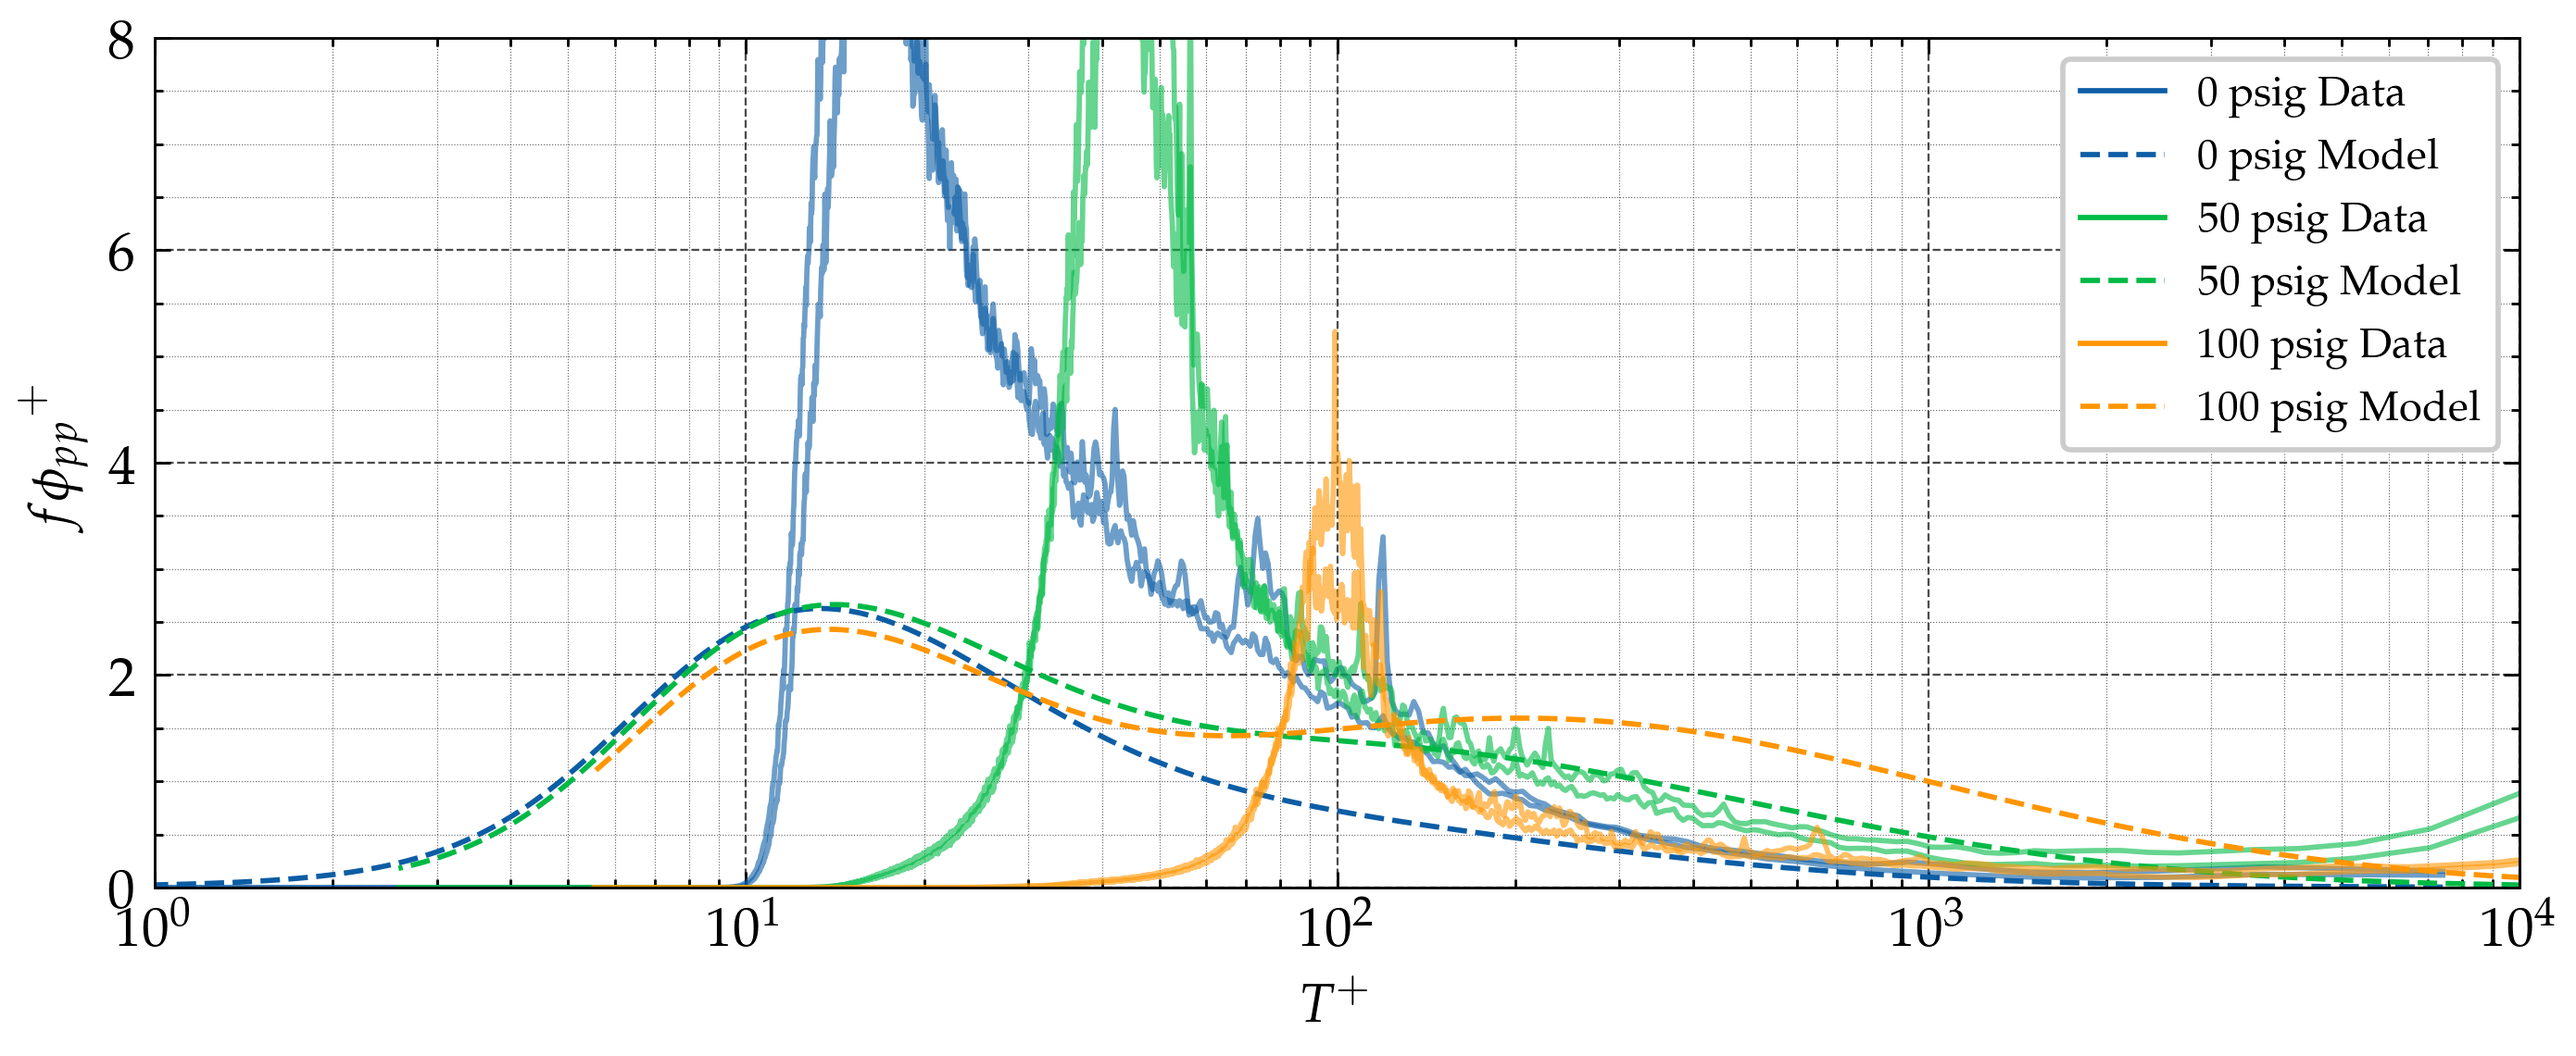
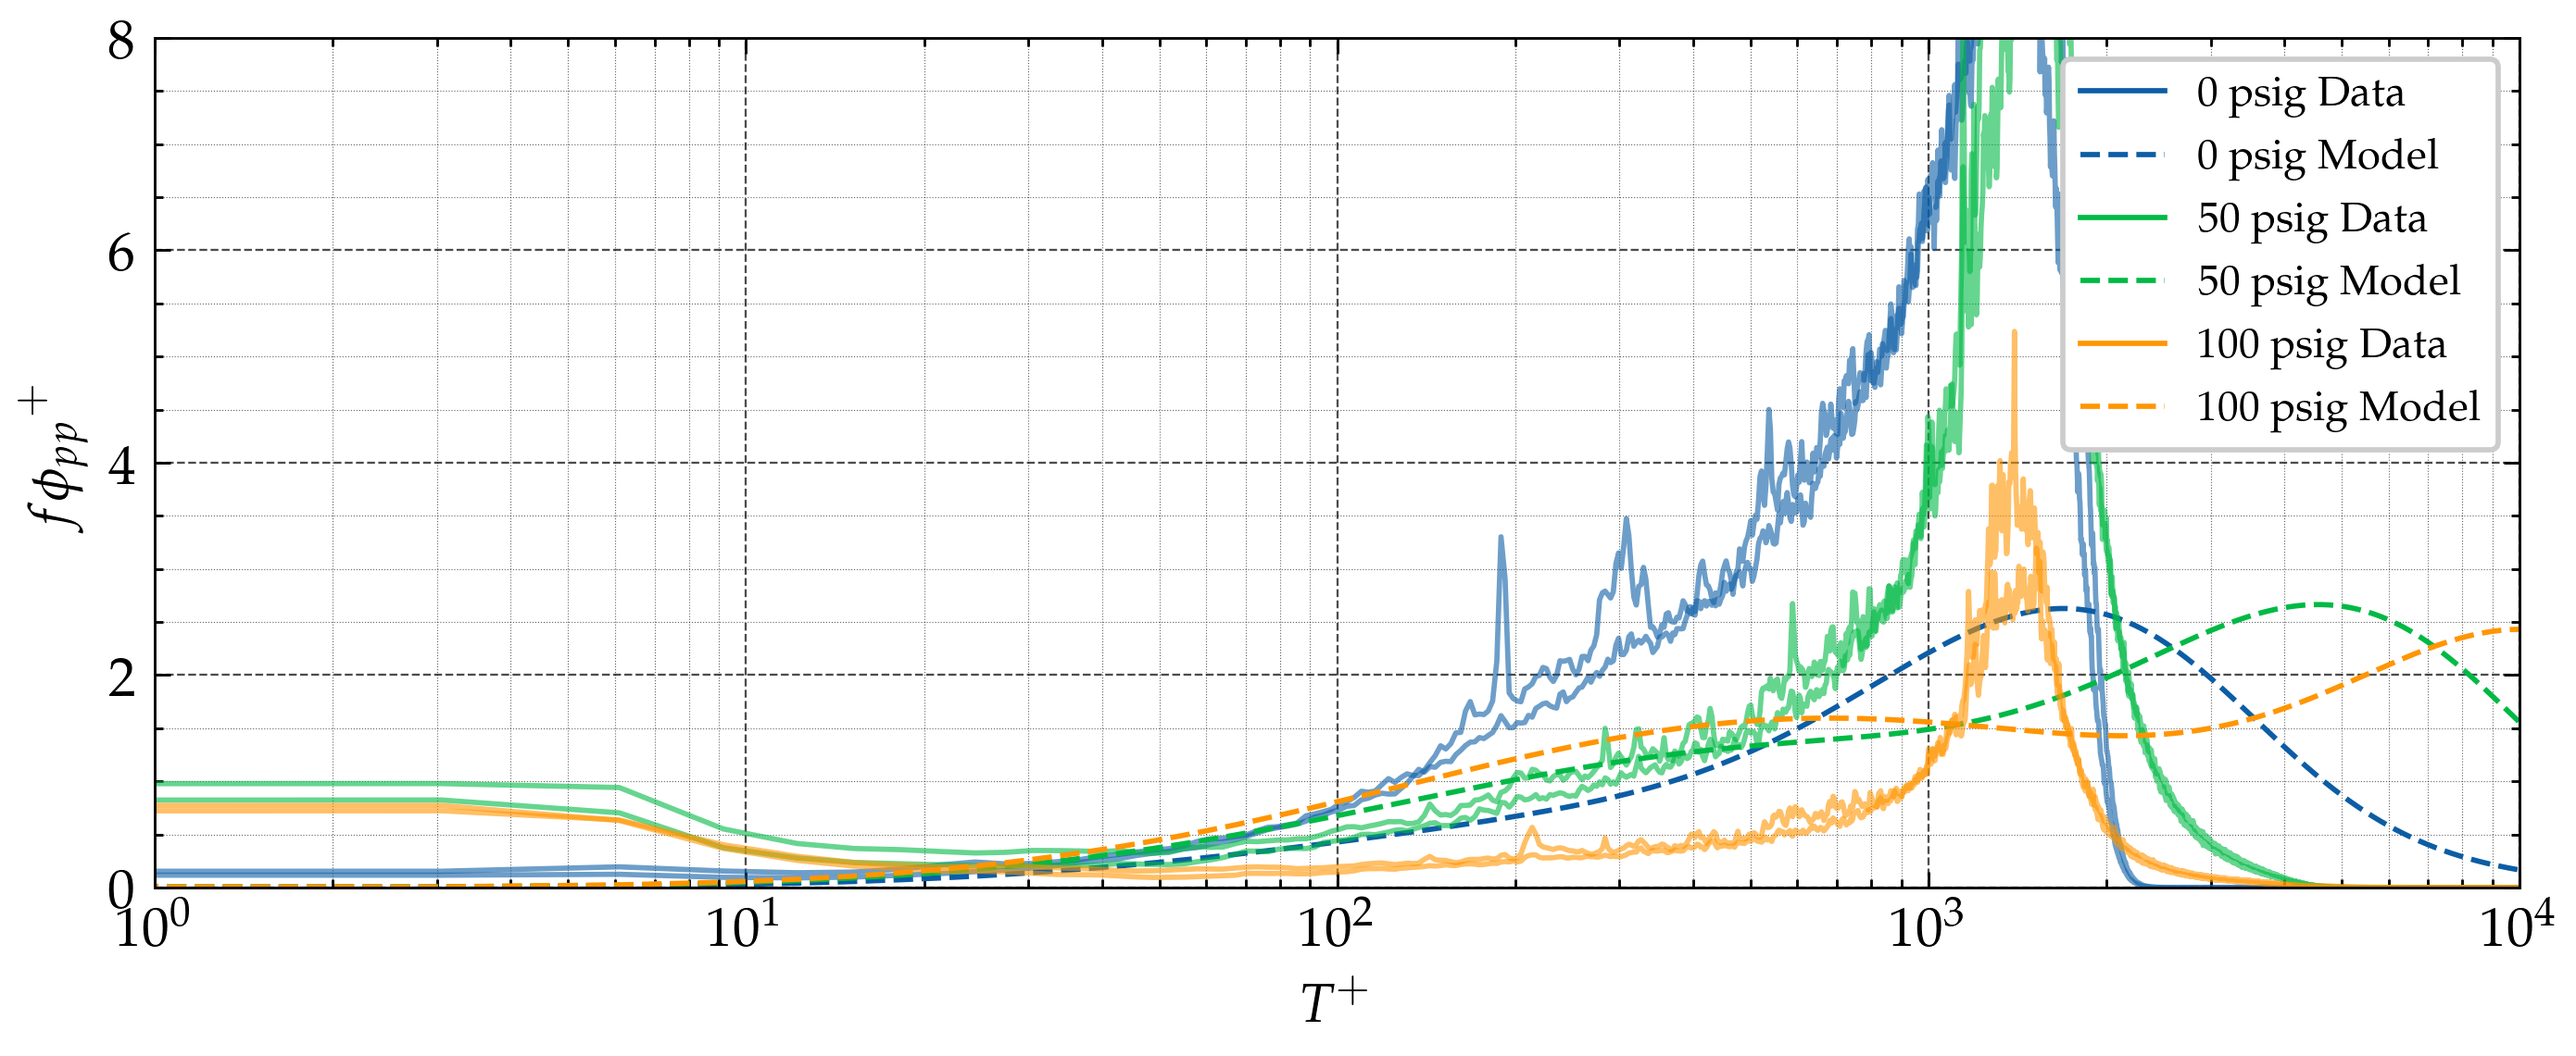
Tonal data ready

Changed region(s): [[0.0618, 0.0307, 0.9896, 0.8589], [0.9277, 0.5828, 0.9586, 0.6442], [0.8968, 0.5521, 0.9277, 0.5828]]

diff --git a/src/25-10-27_new_tfs_needed.py b/src/25-10-27_new_tfs_needed.py
@@ -3,20 +3,18 @@ import numpy as np
 from scipy.signal import welch, csd, get_window
 import scipy.io as sio
 
-from matplotlib import pyplot as plt
-from matplotlib.lines import Line2D
-import scienceplots
 from icecream import ic
 from pathlib import Path
 
 from scipy.signal import butter, sosfiltfilt
-
-
 import torch
 from tqdm import tqdm
 
 from wiener_filter_torch import wiener_cancel_background_torch
 
+from matplotlib import pyplot as plt
+from matplotlib.lines import Line2D
+import scienceplots
 plt.style.use(["science", "grid"])
 plt.rcParams["font.size"] = "10.5"
 plt.rc("text", usetex=True)
@@ -381,9 +379,9 @@ def plot_model_comparison():
         
         data_fphipp_plus1 = (f_clean * Pyy_ph1_clean)/(rho**2 * u_tau**4)
         data_fphipp_plus2 = (f_clean * Pyy_ph2_clean)/(rho**2 * u_tau**4)
-        ax.semilogx(T_plus, data_fphipp_plus1, label=labels[idxfn], alpha=0.6, color=colours[idxfn])
-        ax.semilogx(T_plus, data_fphipp_plus2, label=labels[idxfn], alpha=0.6, color=colours[idxfn])
-        ax.semilogx(T_plus, channel_fphipp_plus, label=f'Model {labels[idxfn]}', linestyle='--', color=colours[idxfn])
+        ax.semilogx(f_clean, data_fphipp_plus1, label=labels[idxfn], alpha=0.6, color=colours[idxfn])
+        ax.semilogx(f_clean, data_fphipp_plus2, label=labels[idxfn], alpha=0.6, color=colours[idxfn])
+        ax.semilogx(f_clean, channel_fphipp_plus, label=f'Model {labels[idxfn]}', linestyle='--', color=colours[idxfn])
 
     ax.set_xlabel(r"$T^+$")
     ax.set_ylabel(r"${f \phi_{pp}}^+$")
@@ -428,8 +426,8 @@ def plot_tf_model_comparison():
         channel_fphipp_plus = rv_c*(g1_c+g2_c)
         bl_fphipp_plus = rv_b*(g1_b+g2_b)
 
-        ax.semilogx(T_plus, channel_fphipp_plus, label=f'Model {labels[idxfn]}', linestyle='--', color=colours[idxfn], lw=0.7)
-        ax.semilogx(T_plus, bl_fphipp_plus, label=f'BL Model {labels[idxfn]}', linestyle='-.', color=colours[idxfn], lw=0.7)
+        ax.semilogx(f_clean, channel_fphipp_plus, label=f'Model {labels[idxfn]}', linestyle='--', color=colours[idxfn], lw=0.7)
+        ax.semilogx(f_clean, bl_fphipp_plus, label=f'BL Model {labels[idxfn]}', linestyle='-.', color=colours[idxfn], lw=0.7)
 
 
         # Apply transfer function
@@ -447,8 +445,8 @@ def plot_tf_model_comparison():
         T_plus_tf = 1/f_clean_tf * (u_tau**2)/nu
         data_fphipp_plus1_tf = (f_clean_tf * Pyy_ph1_clean_tf)/(rho**2 * u_tau**4)
         data_fphipp_plus2_tf = (f_clean_tf * Pyy_ph2_clean_tf)/(rho**2 * u_tau**4)
-        ax.semilogx(T_plus_tf, data_fphipp_plus1_tf, linestyle='-', color=colours[idxfn], alpha=0.7, lw=0.7)
-        ax.semilogx(T_plus_tf, data_fphipp_plus2_tf, linestyle='-', color=colours[idxfn], alpha=0.7, lw=0.7)
+        ax.semilogx(f_clean_tf, data_fphipp_plus1_tf, linestyle='-', color=colours[idxfn], alpha=0.7, lw=0.7)
+        ax.semilogx(f_clean_tf, data_fphipp_plus2_tf, linestyle='-', color=colours[idxfn], alpha=0.7, lw=0.7)
 
     ax.set_xlabel(r"$T^+$")
     ax.set_ylabel(r"${f \phi_{pp}}^+$")
@@ -548,11 +546,102 @@ def plot_required_tfs():
     ax[0].legend(loc='upper left', fontsize=8)
     fig.savefig('figures/final/required_transfer_functions.png', dpi=410)
 
+def plot_required_ratios():
+    fn_atm = '0psig_cleaned.h5'
+    fn_50psig = '50psig_cleaned.h5'
+    fn_100psig = '100psig_cleaned.h5'
+    labels = ['0psig', '50psig', '100psig']
+    colours = ['C0', 'C1', 'C2']
+
+    fig, ax = plt.subplots(1, 1, figsize=(20, 12), tight_layout=True)
+    for idxfn, fn in enumerate([fn_atm, fn_50psig, fn_100psig]):
+        with h5py.File(f'data/{fn}', 'r') as hf:
+            ph1_clean = hf['ph1_clean'][:]
+            ph2_clean = hf['ph2_clean'][:]
+            u_tau = hf.attrs['u_tau']
+            nu = hf.attrs['nu']
+            rho = hf.attrs['rho']
+            f_cut = hf.attrs['f_cut']
+            Re_tau = hf.attrs['Re_tau']
+        f_clean, Pyy_ph1_clean = compute_spec(FS, ph1_clean)
+        f_clean, Pyy_ph2_clean = compute_spec(FS, ph2_clean)
+        T_plus = 1/f_clean * (u_tau**2)/nu
+
+        g1_c, g2_c, rv_c = channel_model(T_plus, Re_tau, u_tau, 14)
+        channel_fphipp_plus = rv_c*(g1_c+g2_c)
+        g1_b, g2_b, rv_b = bl_model(T_plus, Re_tau, 2*(u_tau**2)/14.0**2)
+        bl_fphipp_plus = rv_b*(g1_b+g2_b)
+        
+        data_fphipp_plus1 = (f_clean * Pyy_ph1_clean)/(rho**2 * u_tau**4)
+        data_fphipp_plus2 = (f_clean * Pyy_ph2_clean)/(rho**2 * u_tau**4)
+
+        # Cut off where the filter does
+        T_plus_mask = T_plus >= TPLUS_CUT
+        f_clean = f_clean[T_plus_mask]
+        T_plus = T_plus[T_plus_mask]
+        channel_fphipp_plus = channel_fphipp_plus[T_plus_mask]
+        bl_fphipp_plus = bl_fphipp_plus[T_plus_mask]
+        data_fphipp_plus1 = data_fphipp_plus1[T_plus_mask]
+        data_fphipp_plus2 = data_fphipp_plus2[T_plus_mask]
+
+        model_data_ratio1 = channel_fphipp_plus / data_fphipp_plus1
+        model_data_ratio1 = bl_fphipp_plus / data_fphipp_plus1
+        model_data_ratio2 = channel_fphipp_plus / data_fphipp_plus2
+        model_data_ratio2 = bl_fphipp_plus / data_fphipp_plus2
+
+        ax.loglog(f_clean, model_data_ratio1, label=f'Ratio 1 {labels[idxfn]}', alpha=0.6, color=colours[idxfn])
+        ax.loglog(f_clean, model_data_ratio2, label=f'Ratio 2 {labels[idxfn]}', alpha=0.6, color=colours[idxfn])
+
+        ic(model_data_ratio1)
+
+        freq_print = np.geomspace(50, 2500, 16)
+        avg = np.empty_like(freq_print)
+        for i, f in enumerate(freq_print):
+            idx = np.argmin(np.abs(f_clean - f))
+            # ic(fn, (model_data_ratio1[idx]+model_data_ratio2[idx])/2)
+            avg[i] = (model_data_ratio1[idx]+model_data_ratio2[idx])/2
+        # ic(fn, freq_print, avg)
+
+        f = 100
+        idx = np.argmin(np.abs(freq_print - f))
+        ic(f, avg[idx])
+
+        # # Plot transfer function magnitude on top
+        # f1_fused_insitu = np.load(f"data/20251016/flow_data/tf_combined/700_{labels[idxfn]}_fused_insitu_f1.npy")
+        # H1_fused_insitu = np.load(f"data/20251016/flow_data/tf_combined/700_{labels[idxfn]}_fused_insitu_H1.npy")
+        # f2_fused_insitu = np.load(f"data/20251016/flow_data/tf_combined/700_{labels[idxfn]}_fused_insitu_f2.npy")
+        # H2_fused_insitu = np.load(f"data/20251016/flow_data/tf_combined/700_{labels[idxfn]}_fused_insitu_H2.npy")
+        
+        # # Mask to cut off below TPLUS_CUT
+        # tf_mask1 = (1/f1_fused_insitu * (u_tau**2)/nu) >= TPLUS_CUT
+        # tf_mask2 = (1/f2_fused_insitu * (u_tau**2)/nu) >= TPLUS_CUT
+
+        # f1_fused_insitu = f1_fused_insitu[tf_mask1]
+        # H1_fused_insitu = H1_fused_insitu[tf_mask1]
+        # f2_fused_insitu = f2_fused_insitu[tf_mask2]
+        # H2_fused_insitu = H2_fused_insitu[tf_mask2]
+
+
+        # ax[1].loglog(f1_fused_insitu, np.abs(H1_fused_insitu), linestyle='--', color=colours[idxfn])
+        # ax[1].loglog(f2_fused_insitu, np.abs(H2_fused_insitu), linestyle='--', color=colours[idxfn])
+
+    
+    ax.set_xlabel(r"$f$ [Hz]")
+    ax.set_ylabel(r"Model/Data Ratio")
+    ax.set_xlim(1, 1.5e4)
+    ax.grid(True, which='major', linestyle='--', linewidth=0.4, alpha=0.7)
+    ax.grid(True, which='minor', linestyle=':', linewidth=0.2, alpha=0.6)
+    ax.axhline(1, linestyle='--', linewidth=0.4, alpha=0.7)
+
+    # ax[0].legend(loc='upper left', fontsize=8)
+    fig.savefig('figures/final/ratio.png', dpi=410)
+
 
 
 if __name__ == "__main__":
     # run_all_final()
-    plot_model_comparison()
-    plot_tf_model_comparison()
-    plot_required_tfs()
+    # plot_model_comparison()
+    # plot_tf_model_comparison()
+    # plot_required_tfs()
+    plot_required_ratios()
     

diff --git a/src/25-10-28_tonal.py b/src/25-10-28_tonal.py
@@ -1,0 +1,177 @@
+# tf_compute.py
+from __future__ import annotations
+
+from dataclasses import dataclass, field
+from pathlib import Path
+from typing import Callable, Dict, Iterable, Optional, Tuple
+import inspect
+
+import numpy as np
+from scipy.io import loadmat
+from scipy.signal import welch, csd, get_window, iirnotch, sosfiltfilt
+from scipy.interpolate import UnivariateSpline
+
+from icecream import ic
+
+from matplotlib import pyplot as plt
+from matplotlib.lines import Line2D
+import scienceplots
+plt.style.use(["science", "grid"])
+plt.rcParams["font.size"] = "10.5"
+plt.rc("text", usetex=True)
+plt.rc("text.latex", preamble=r"\usepackage{mathpazo}")
+
+# =============================================================================
+# Constants & styling (exported so tf_plot.py can import them)
+# =============================================================================
+FS: float = 50_000.0
+NPERSEG: int = 2**14
+WINDOW: str = "hann"
+
+# Colors (exported for plotting)
+PH1_COLOR = "#c76713"  # orange
+PH2_COLOR = "#9fda16"  # green-ish
+NC_COLOR = "#2ca02c"   # matplotlib default green (kept for reference)
+
+# --- constants (keep once, top of file) ---
+R = 287.05        # J/kg/K
+PSI_TO_PA = 6_894.76
+P_ATM = 101_325.0
+DELTA = 0.035  # m, bl-height of 'channel'
+TDEG = [18, 20, 22]
+
+# =============================================================================
+# Units & optional conversions (kept for compatibility with other workflows)
+# =============================================================================
+DEFAULT_UNITS = {
+    "channelData_300_plug": ("Pa", "Pa"),
+    "channelData_300_nose": ("Pa", "Pa"),
+    "channelData_300": ("Pa", "Pa"),
+}
+
+SENSITIVITIES_V_PER_PA: dict[str, float] = {
+    # 'nc': 0.05,
+    # 'PH': 0.05,
+    # 'NC': 0.05,
+}
+PREAMP_GAIN: dict[str, float] = {"nc": 1.0, "PH": 1.0, "NC": 1.0}
+TONAL_BASE = "data/25-10-28_tonal/"
+
+
+def convert_to_pa(x: np.ndarray, units: str, *, channel_name: str = "unknown") -> np.ndarray:
+    """Convert a pressure time series to Pa."""
+    u = units.lower()
+    x = np.asarray(x, float)
+    if u == "pa":
+        return x
+    if u == "kpa":
+        return x * 1e3
+    if u == "mbar":
+        return x * 100.0
+    if u in ("v", "volt", "volts"):
+        if channel_name not in SENSITIVITIES_V_PER_PA or SENSITIVITIES_V_PER_PA[channel_name] is None:
+            raise ValueError(
+                f"Sensitivity (V/Pa) for channel '{channel_name}' not provided; cannot convert V→Pa."
+            )
+        sens = float(SENSITIVITIES_V_PER_PA[channel_name])  # V/Pa
+        gain = float(PREAMP_GAIN.get(channel_name, 1.0))
+        return x / (gain * sens)
+    raise ValueError(f"Unsupported units '{units}' for channel '{channel_name}'")
+
+
+def air_props_from_gauge(psi_gauge: float, T_K: float):
+    """
+    Return rho [kg/m^3], mu [Pa·s], nu [m^2/s] from gauge pressure [psi] and temperature [K].
+    Sutherland's law for mu; nu = mu/rho.
+    """
+    p_abs = P_ATM + psi_gauge * PSI_TO_PA
+    # Sutherland's
+    mu0, T0, S = 1.716e-5, 273.15, 110.4
+    mu = mu0 * (T_K/T0)**1.5 * (T0 + S)/(T_K + S)
+    rho = p_abs / (R * T_K)
+    nu = mu / rho
+    return rho, mu, nu
+
+
+def concatenate_signals(frequencies) -> np.ndarray:
+    """Concatenate multiple 1D arrays into a single 1D array."""
+    f_array = []
+    ratios = [] 
+    for freq in frequencies:
+        fn = TONAL_BASE + f"ChannelData_{freq}.mat"
+        dat = loadmat(fn, squeeze_me=True)
+        ic(dat.keys())
+        nc, ph1 = dat["ChannelData_LP"].T
+        nc_pa = convert_to_pa(nc, "V", channel_name="nc")
+        ph1_pa = convert_to_pa(ph1, "V", channel_name="PH")
+        # Find the amplitude of the tone in nc_pa
+        f, Pxx = welch(nc_pa, fs=FS, window=WINDOW, nperseg=NPERSEG)
+        tone_idx = np.argmax(Pxx)
+        tone_freq = f[tone_idx]
+        # Find the amplitude of the tone in ph1_pa
+        f, Pxx = welch(ph1_pa, fs=FS, window=WINDOW, nperseg=NPERSEG)
+        tone_idx = np.argmax(Pxx)
+        tone_freq = f[tone_idx]
+        ratio = np.sqrt(np.max(Pxx)) / np.sqrt(np.max(Pxx))
+        ratios.append(ratio)
+        f_array.append(ph1_pa)
+    return np.array(f_array), np.array(ratios)
+
+def estimate_frf(
+    x: np.ndarray,
+    y: np.ndarray,
+    fs: float,
+    window: str = WINDOW,
+    npsg: int = NPERSEG,
+):
+    """
+    Estimate H1 FRF and magnitude-squared coherence using Welch/CSD.
+
+    Returns
+    -------
+    f : array_like [Hz]
+    H : array_like (complex) = S_yx / S_xx  (x → y)
+    gamma2 : array_like in [0, 1]
+    """
+    x = np.asarray(x, float)
+    y = np.asarray(y, float)
+    nseg = int(min(npsg, x.size, y.size))
+    if nseg < 8:
+        raise ValueError(f"Signal too short for FRF: n={min(x.size, y.size)}")
+    nov = int(min(npsg // 2, nseg // 2))
+    w = get_window(window, nseg, fftbins=True)
+
+    f, Sxx = welch(x, fs=fs, window=w, nperseg=nseg, noverlap=nov, detrend=False)
+    _, Syy = welch(y, fs=fs, window=w, nperseg=nseg, noverlap=nov, detrend=False)
+    # SciPy convention: csd(x, y) = E{ X * conj(Y) }
+    _, Sxy = csd(x, y, fs=fs, window=w, nperseg=nseg, noverlap=nov, detrend=False)  # x→y
+
+    H = np.conj(Sxy) / Sxx               # H1 = Syx / Sxx = conj(Sxy)/Sxx
+    gamma2 = (np.abs(Sxy) ** 2) / (Sxx * Syy)
+    gamma2 = np.clip(gamma2.real, 0.0, 1.0)
+    return f, H, gamma2
+
+
+
+def plot_ratios():
+    frequencies = np.arange(100, 3100, 100)
+    dat = loadmat(TONAL_BASE + "ChannelData_wn.mat")
+    nc, ph1 = dat["ChannelData_LP"].T
+    nc_pa = convert_to_pa(nc, "V", channel_name="nc")
+    ph1_pa = convert_to_pa(ph1, "V", channel_name="PH")
+    f1, H1, _ = estimate_frf(nc_pa, ph1_pa, fs=FS)
+    f_array, ratios = concatenate_signals(frequencies)
+    # Fit a spline through the tonal ratios
+    spline = UnivariateSpline(f_array, ratios, s=0)
+    f_smooth = np.logspace(np.log10(f_array[0]), np.log10(f_array[-1]), 100)
+    ratios_smooth = spline(f_smooth)
+
+    fig, ax = plt.subplots(figsize=(6, 4))
+    ax.semilogx(f1, np.abs(H1), label="FRF from WN", color="C0")
+    ax.semilogx(f_array, ratios, "o", label="Tonal ratios", color="C1")
+    ax.semilogx(f_smooth, ratios_smooth, "-", label="Spline fit", color="C1", alpha=0.5)
+    ax.set_xlabel(r"$f$ [Hz]")
+    ax.set_ylabel("Amplitude ratio")
+    fig.savefig("figures/tonal_ratios/tonal.png", dpi=300)
+
+plot_ratios()

diff --git a/src/tonal_table.py b/src/tonal_table.py
@@ -4,23 +4,23 @@ import pandas as pd
 # -------------------------------
 # Configuration
 # -------------------------------
-n_tones = 12
-run_length_s = 10  # seconds per tone
+n_tones = 16
+run_length_s = 20  # seconds per tone
 
 # Frequency bands [Hz]
 bands = {
     "Atmospheric (0 psig)": {
         "HR": (700, 3000),
-        "OP": (20, 200)
+        "OP": (50, 200)
     },
-    "50 psig": {
-        "HR": (700, 3000),
-        "OP": (50, 500)
-    },
-    "100 psig": {
-        "HR": (700, 3000),
-        "OP": (100, 800)
-    }
+    # "50 psig": {
+    #     "HR": (700, 3000),
+    #     "OP": (50, 500)
+    # },
+    # "100 psig": {
+    #     "HR": (700, 3000),
+    #     "OP": (50, 800)
+    # }
 }
 
 # -------------------------------
@@ -28,14 +28,10 @@ bands = {
 # -------------------------------
 records = []
 for pressure, band in bands.items():
-    hr_freqs = np.round(np.geomspace(*band["HR"], num=n_tones), 1)
-    op_freqs = np.round(np.geomspace(*band["OP"], num=n_tones), 1)
+    hr_freqs = np.round(np.geomspace(50, 2500, num=n_tones), 0)
     records.append({
-        "Pressure": pressure,
-        "HR band [Hz]": f"{band['HR'][0]}–{band['HR'][1]}",
-        "OP band [Hz]": f"{band['OP'][0]}–{band['OP'][1]}",
+        "Band [Hz]": r"50--2,500",
         "HR tones [Hz]": ", ".join(map(str, hr_freqs)),
-        "OP tones [Hz]": ", ".join(map(str, op_freqs)),
         "Run length [s]": run_length_s
     })
 
